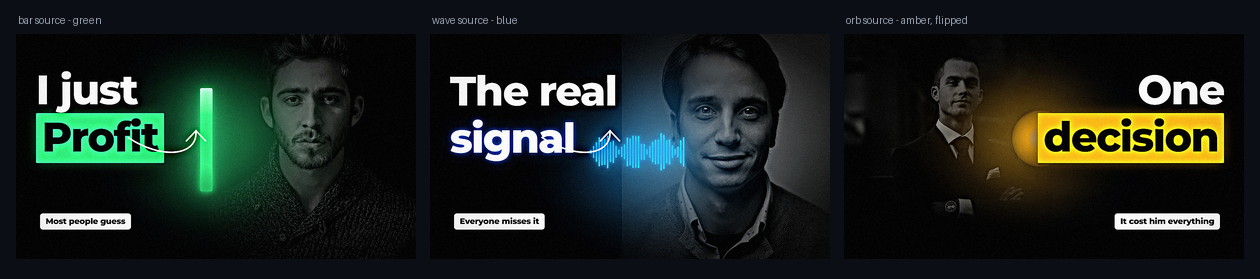
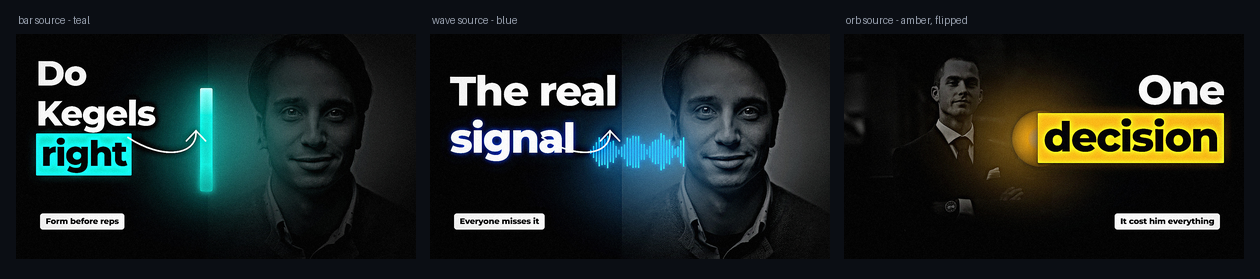
Kegel build, DIM for light-background photos, new README showcase
- insight.html gains DIM: a portrait shot on a light background sits brighter
  than the design base and its straight edge shows through the scrim
- type column narrowed to 42%; a multi-word LIT with LIT_STYLE=bar wrapped into
  a slab large enough to cover the light source behind it, so the template now
  says to keep a bar accent to one word
- README leads with docs/showcase.png - Premium Insight work across health,
  finance and psychology - replacing the earlier gallery

The health build carries no medical claims and no fabricated data, per
niche-guide.md.

Changed region(s): [[0.0, 0.2007, 0.3095, 0.8315], [0.031, 0.7742, 0.1238, 0.8315], [0.0619, 0.0573, 0.0929, 0.086]]

diff --git a/skills/thumbnail-designer/assets/templates/insight.html b/skills/thumbnail-designer/assets/templates/insight.html
@@ -10,8 +10,11 @@
        --var ARROW=1 --var MONO=0.9
 
      SOURCE  bar | wave | orb | none      the thing emitting the light
-     LIT     the one word the light touches (set LIT_STYLE=bar for a glowing slab)
+     LIT     the one word the light touches (set LIT_STYLE=bar for a glowing slab).
+             Keep it to ONE word when using bar - a wrapped slab becomes a giant block
+             that swallows the light source behind it.
      MONO    0-1, how far the photo goes to black and white (default 0.9)
+     DIM     photo brightness multiplier - drop to ~0.5 for a light-background shot
      SIDE    right (default) or left - which side the subject sits on -->
 <html lang="en">
 <head>
@@ -33,7 +36,7 @@
 
   /* type sits BEHIND the subject so the subject masks it */
   /* padding-bottom reserves the pill's band so the headline can never sit on it */
-  .col { position: absolute; top: 0; bottom: 0; left: 5%; width: 48%; z-index: 7;
+  .col { position: absolute; top: 0; bottom: 0; left: 5%; width: 42%; z-index: 7;
     display: flex; flex-direction: column; justify-content: center; gap: 22px;
     padding-bottom: 16%; }
   .side-left .col { left: auto; right: 5%; align-items: flex-end; text-align: right; }
@@ -91,6 +94,13 @@
       ' color-mix(in srgb, var(--base) 55%, transparent) ' + (d + 16) + '%,' +
       ' transparent ' + Math.min(d + 40, 96) + '%)';
   } else { photo.remove(); }
+  // A photo shot on a light background sits brighter than the base and its straight
+  // edge shows through the scrim. DIM pushes it down to meet the design.
+  var dim = parseFloat("{{DIM}}");
+  if (photo.parentNode && !isNaN(dim)) {
+    photo.style.filter = 'grayscale(var(--mono)) contrast(1.14) brightness(' + dim + ')';
+  }
+
   var mono = "{{MONO}}".trim();
   document.documentElement.style.setProperty('--mono', mono === '' ? 0.9 : parseFloat(mono));
 

diff --git a/CHANGELOG.md b/CHANGELOG.md
@@ -179,3 +179,16 @@ separates them from competent work.
   whole canvas and stopped the source reading as a source. Both are now capped and local, and
   the spill leans toward the subject so motivated light actually lands on the person.
 - The insight headline could overrun the pill label; the column now reserves that band.
+
+## 1.6.1 - 2026-10-28
+
+### Added
+- `DIM` on `insight.html`. A portrait shot on a light background sits brighter than the design
+  base, so its straight edge shows through the scrim; `DIM` drops it to meet the design.
+- `docs/showcase.png` - the README now leads with Premium Insight work across health, finance
+  and psychology, replacing the earlier gallery.
+
+### Changed
+- The insight type column narrowed to 42%. A multi-word `LIT` with `LIT_STYLE=bar` wrapped into
+  a slab so large it covered the light source behind it; the template now says to keep a bar
+  accent to one word.

diff --git a/README.md b/README.md
@@ -17,10 +17,11 @@ batch-produces premium thumbnails — and proves the result before shipping it.*
 
 ## What it makes
 
-![Photo-split examples](docs/style-photo-split.png)
+![Showcase](docs/showcase.png)
 
-<sub>One template, three niches, three palettes, both directions — real photographs,
-graded and backlit by the skill. Nothing here is drawn or AI-generated.</sub>
+<sub>Premium Insight register: a light source inside the frame whose colour lands on the
+subject, the background and the type; everything else desaturated so the accent is the only
+colour in the picture. Real photographs, no generated imagery.</sub>
 
 ---
 
